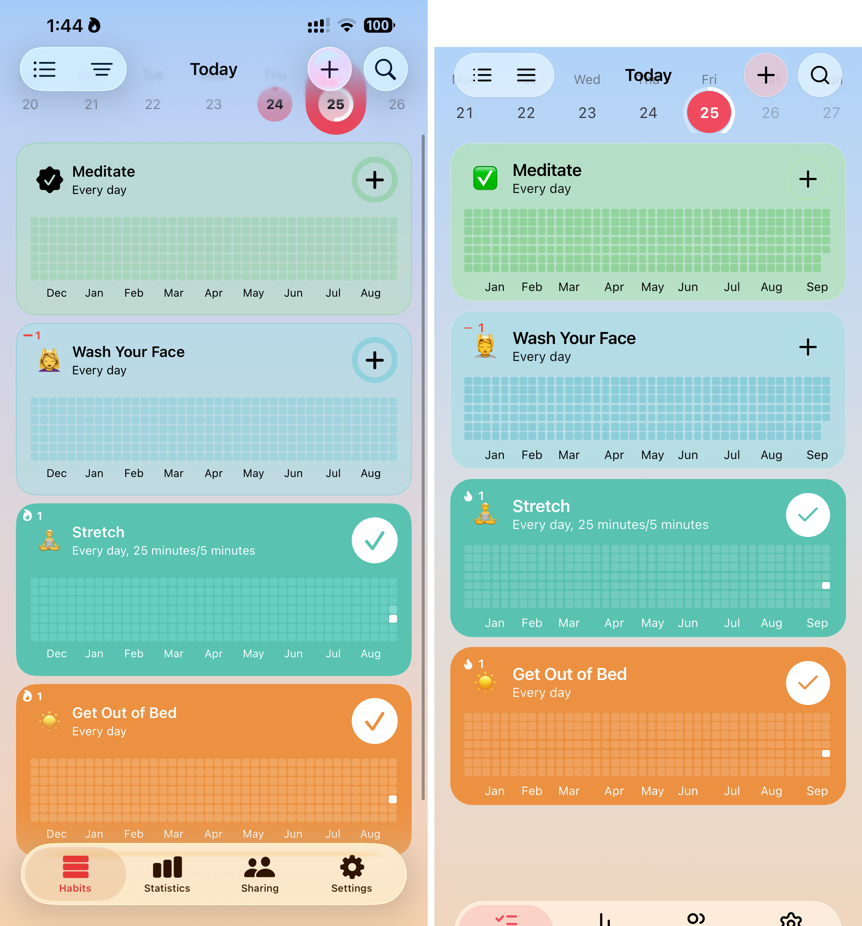
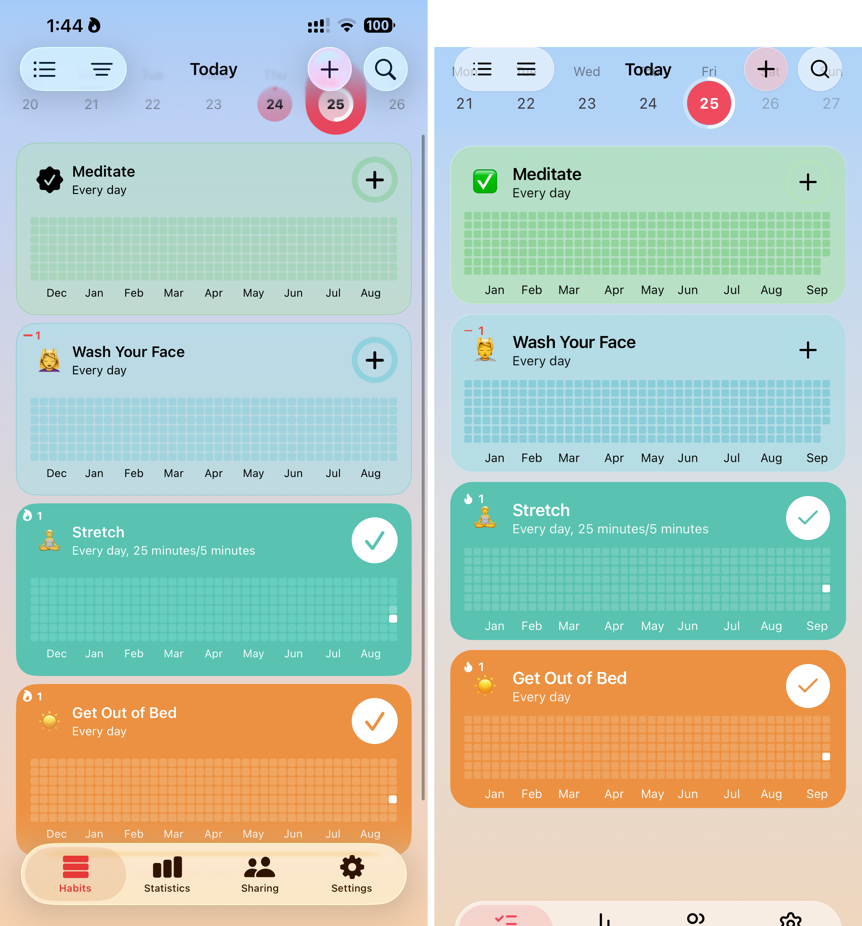
Grit vertical rhythm for header, strip and first card

diff --git a/app.css b/app.css
@@ -42,8 +42,8 @@ input, textarea, select { font-size: 16px; }
 /* ---- app shell ---- */
 /* the app is its own scroller; header, week strip and tab bar are pinned to the viewport and never bounce */
 .app { position: fixed; inset: 0; overflow-y: auto; -webkit-overflow-scrolling: touch; overscroll-behavior: contain; padding-bottom: calc(110px + var(--sab)); }
-.app.today { padding-top: calc(var(--sat) + 132px); }
-.hdr { position: fixed; top: 0; left: 0; right: 0; z-index: 40; padding: calc(var(--sat) + 4px) 20px 0; height: calc(var(--sat) + 52px); display: flex; align-items: center; justify-content: space-between; pointer-events: none; }
+.app.today { padding-top: calc(var(--sat) + 95px); }
+.hdr { position: fixed; top: 0; left: 0; right: 0; z-index: 40; padding: var(--sat) 20px 0; height: calc(var(--sat) + 44px); display: flex; align-items: center; justify-content: space-between; pointer-events: none; }
 .hdr > * { pointer-events: auto; }
 .hdr__t { position: absolute; left: 0; right: 0; text-align: center; font-size: 17px; font-weight: 600; letter-spacing: -0.01em; pointer-events: none; }
 .hdr__pill { display: flex; height: 44px; border-radius: 22px; padding: 0 6px; }
@@ -55,8 +55,8 @@ input, textarea, select { font-size: 16px; }
 .page-t .r.txt { top: calc(var(--sat) + 12px); font-size: 17px; font-weight: 600; color: var(--accent); }
 
 /* ---- week strip ---- */
-.week { display: flex; padding: calc(var(--sat) + 24px) 0 0; height: calc(var(--sat) + 132px); }
-.day { flex: 1; display: flex; flex-direction: column; align-items: center; gap: 4px; }
+.week { display: flex; padding: calc(var(--sat) + 16px) 0 0; height: calc(var(--sat) + 92px); }
+.day { flex: 1; display: flex; flex-direction: column; align-items: center; gap: 2px; }
 .day__n { font-size: 13px; color: var(--ink-3); }
 .day__r { position: relative; width: 44px; height: 44px; display: grid; place-items: center; font-size: 15px; font-weight: 400; color: var(--ink-2); border-radius: 50%; }
 .day__r i { position: absolute; inset: 0; border-radius: 50%; background: var(--accent); opacity: 0; transform: scale(.4); transition: transform .3s var(--ease-out), opacity .3s; }
@@ -68,12 +68,12 @@ input, textarea, select { font-size: 16px; }
 .day.is-sel .day__r svg { position: absolute; inset: -4px; width: 52px; height: 52px; }
 .day.is-sel .day__r svg .t { stroke: rgba(255,255,255,.35); } .day.is-sel .day__r svg .p { stroke: #fff; stroke-linecap: round; }
 .day.is-future .day__r { color: var(--ink-4); }
-.week-wrap { position: fixed; top: 0; left: 0; right: 0; z-index: 39; height: calc(var(--sat) + 132px); overflow-x: auto; overflow-y: hidden; scroll-snap-type: x mandatory; scrollbar-width: none; display: flex; -webkit-mask-image: linear-gradient(#000 82%, transparent); mask-image: linear-gradient(#000 82%, transparent); background: color-mix(in srgb, var(--bg-start) 70%, transparent); -webkit-backdrop-filter: blur(18px); backdrop-filter: blur(18px); }
+.week-wrap { position: fixed; top: 0; left: 0; right: 0; z-index: 39; height: calc(var(--sat) + 92px); overflow-x: auto; overflow-y: hidden; scroll-snap-type: x mandatory; scrollbar-width: none; display: flex; -webkit-mask-image: linear-gradient(#000 82%, transparent); mask-image: linear-gradient(#000 82%, transparent); background: color-mix(in srgb, var(--bg-start) 70%, transparent); -webkit-backdrop-filter: blur(18px); backdrop-filter: blur(18px); }
 .week-wrap::-webkit-scrollbar { display: none; }
 .week-wrap .week { flex: 0 0 100%; scroll-snap-align: start; }
 
 /* ---- habit cards ---- */
-.list { padding: 0 16px 0; display: flex; flex-direction: column; gap: 10px; }
+.list { padding: 4px 16px 0; display: flex; flex-direction: column; gap: 10px; }
 .card { position: relative; width: 100%; border-radius: var(--card-r); overflow: hidden; color: var(--ink); --c: #34c759; background: color-mix(in srgb, var(--c) 34%, var(--glass)); -webkit-backdrop-filter: blur(20px); backdrop-filter: blur(20px); box-shadow: inset 0 0 0 .5px rgba(255,255,255,.4); }
 .card.is-done { background: var(--c); color: #fff; box-shadow: none; }
 .card.is-run { background: color-mix(in srgb, var(--c) 34%, var(--glass)); }
